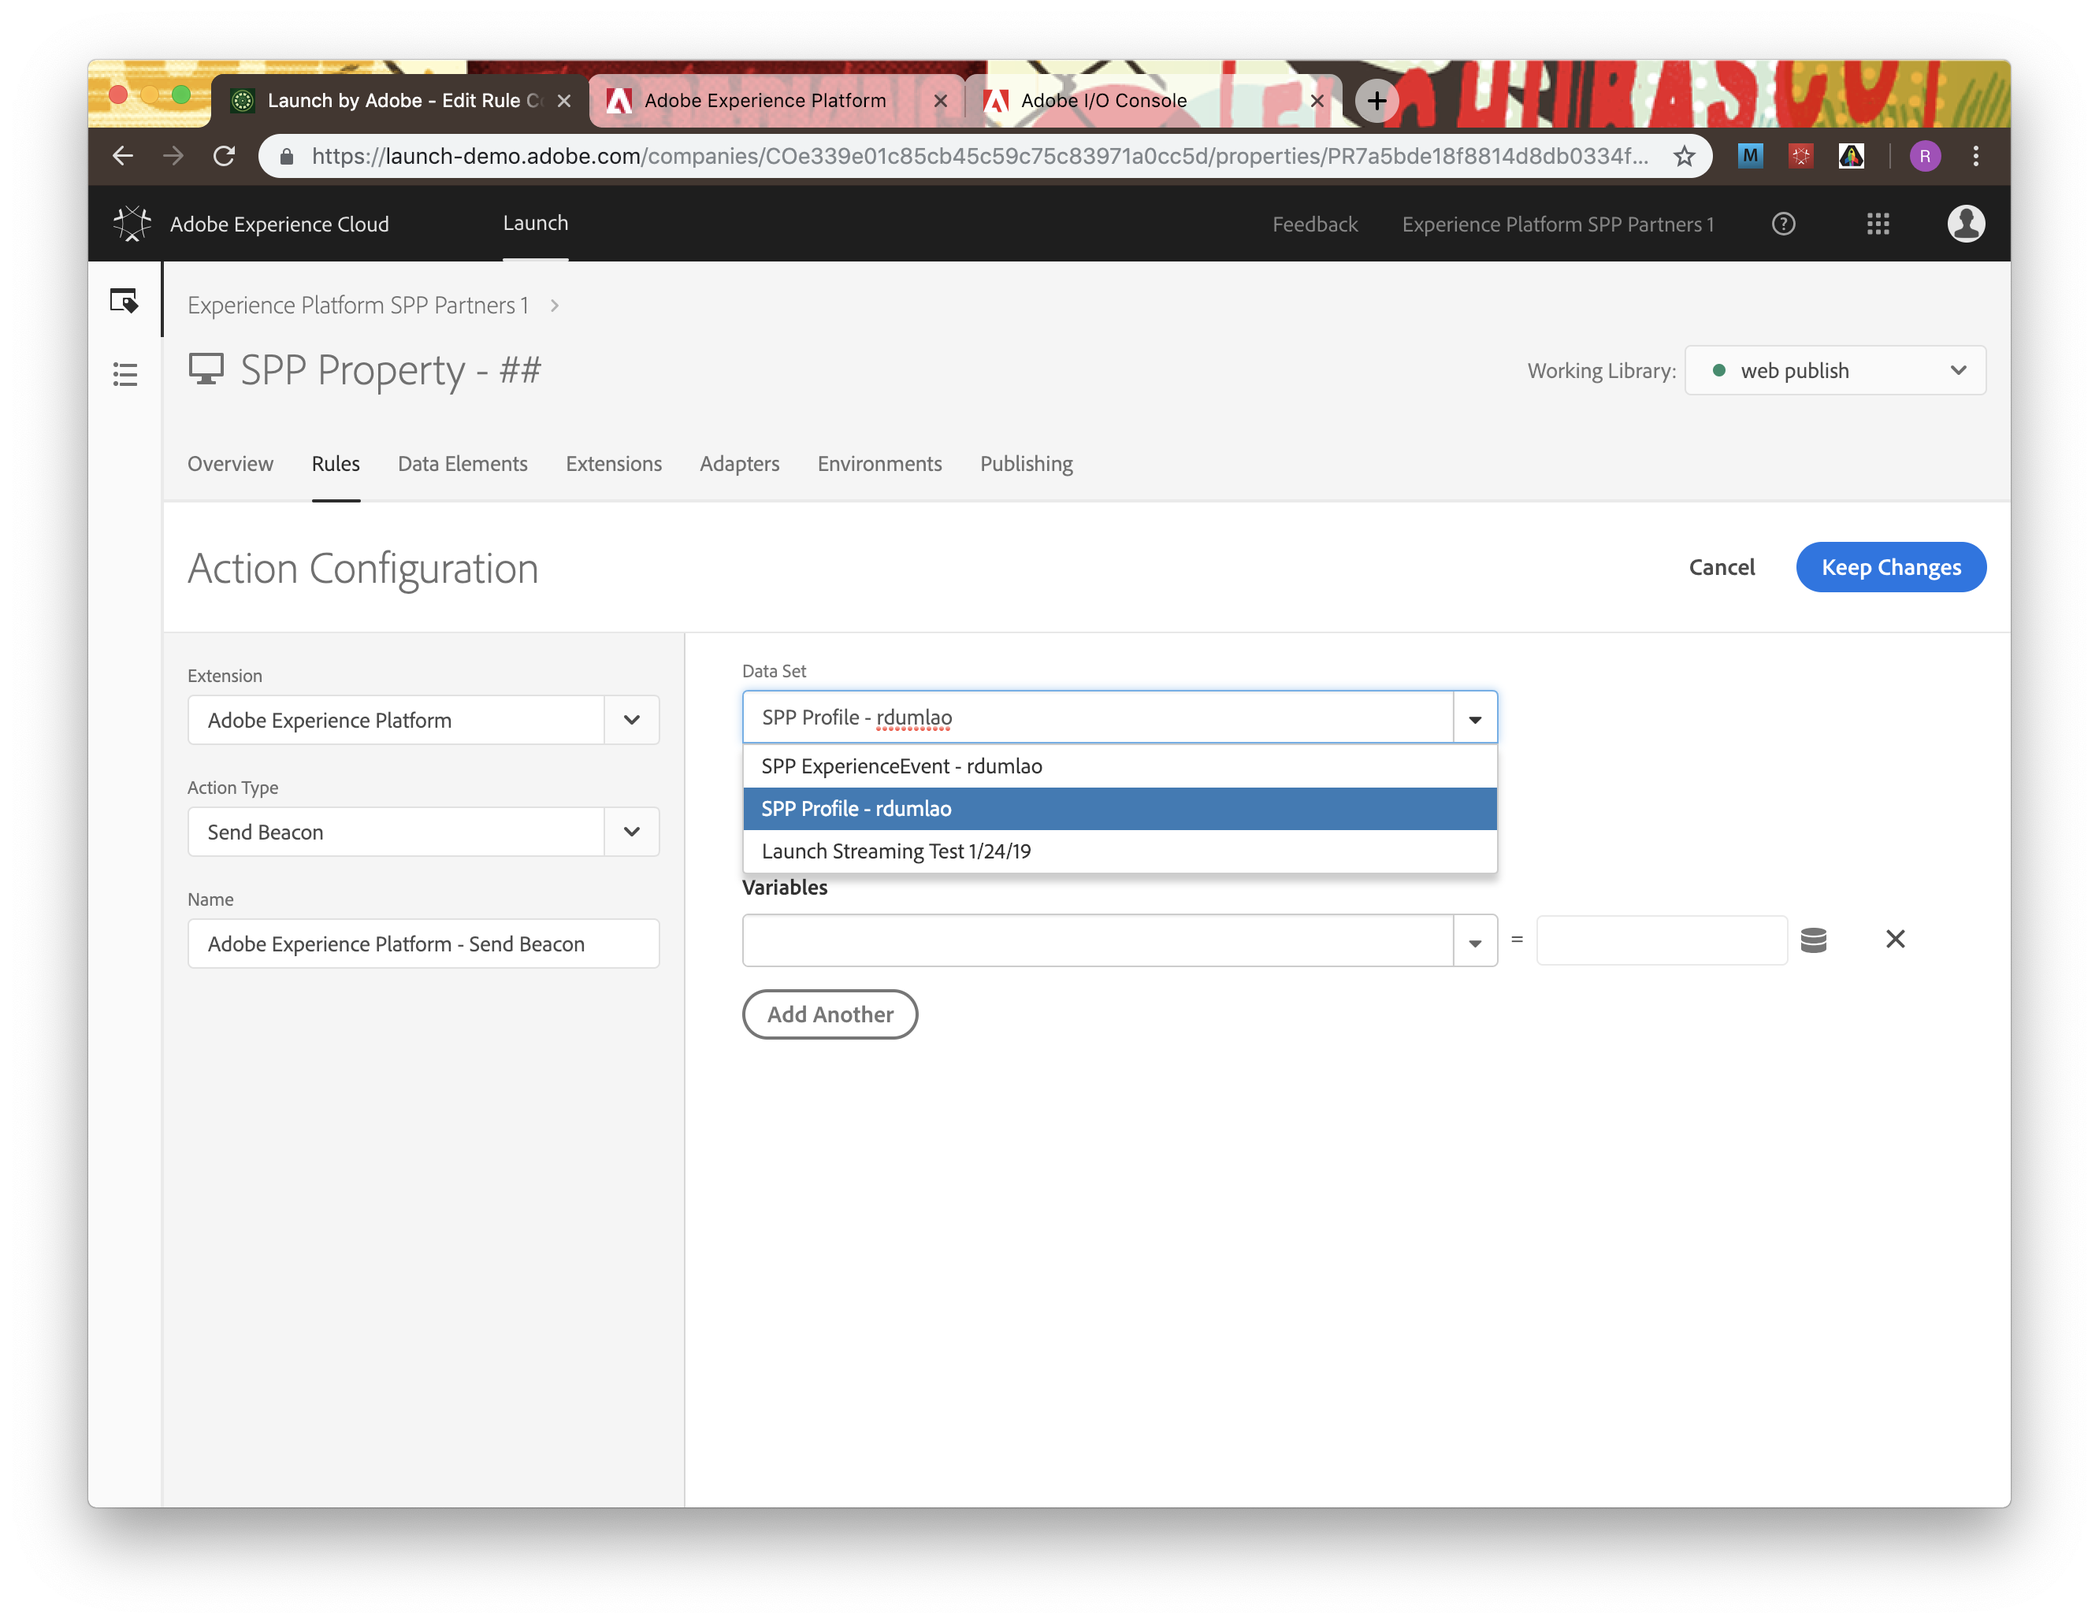
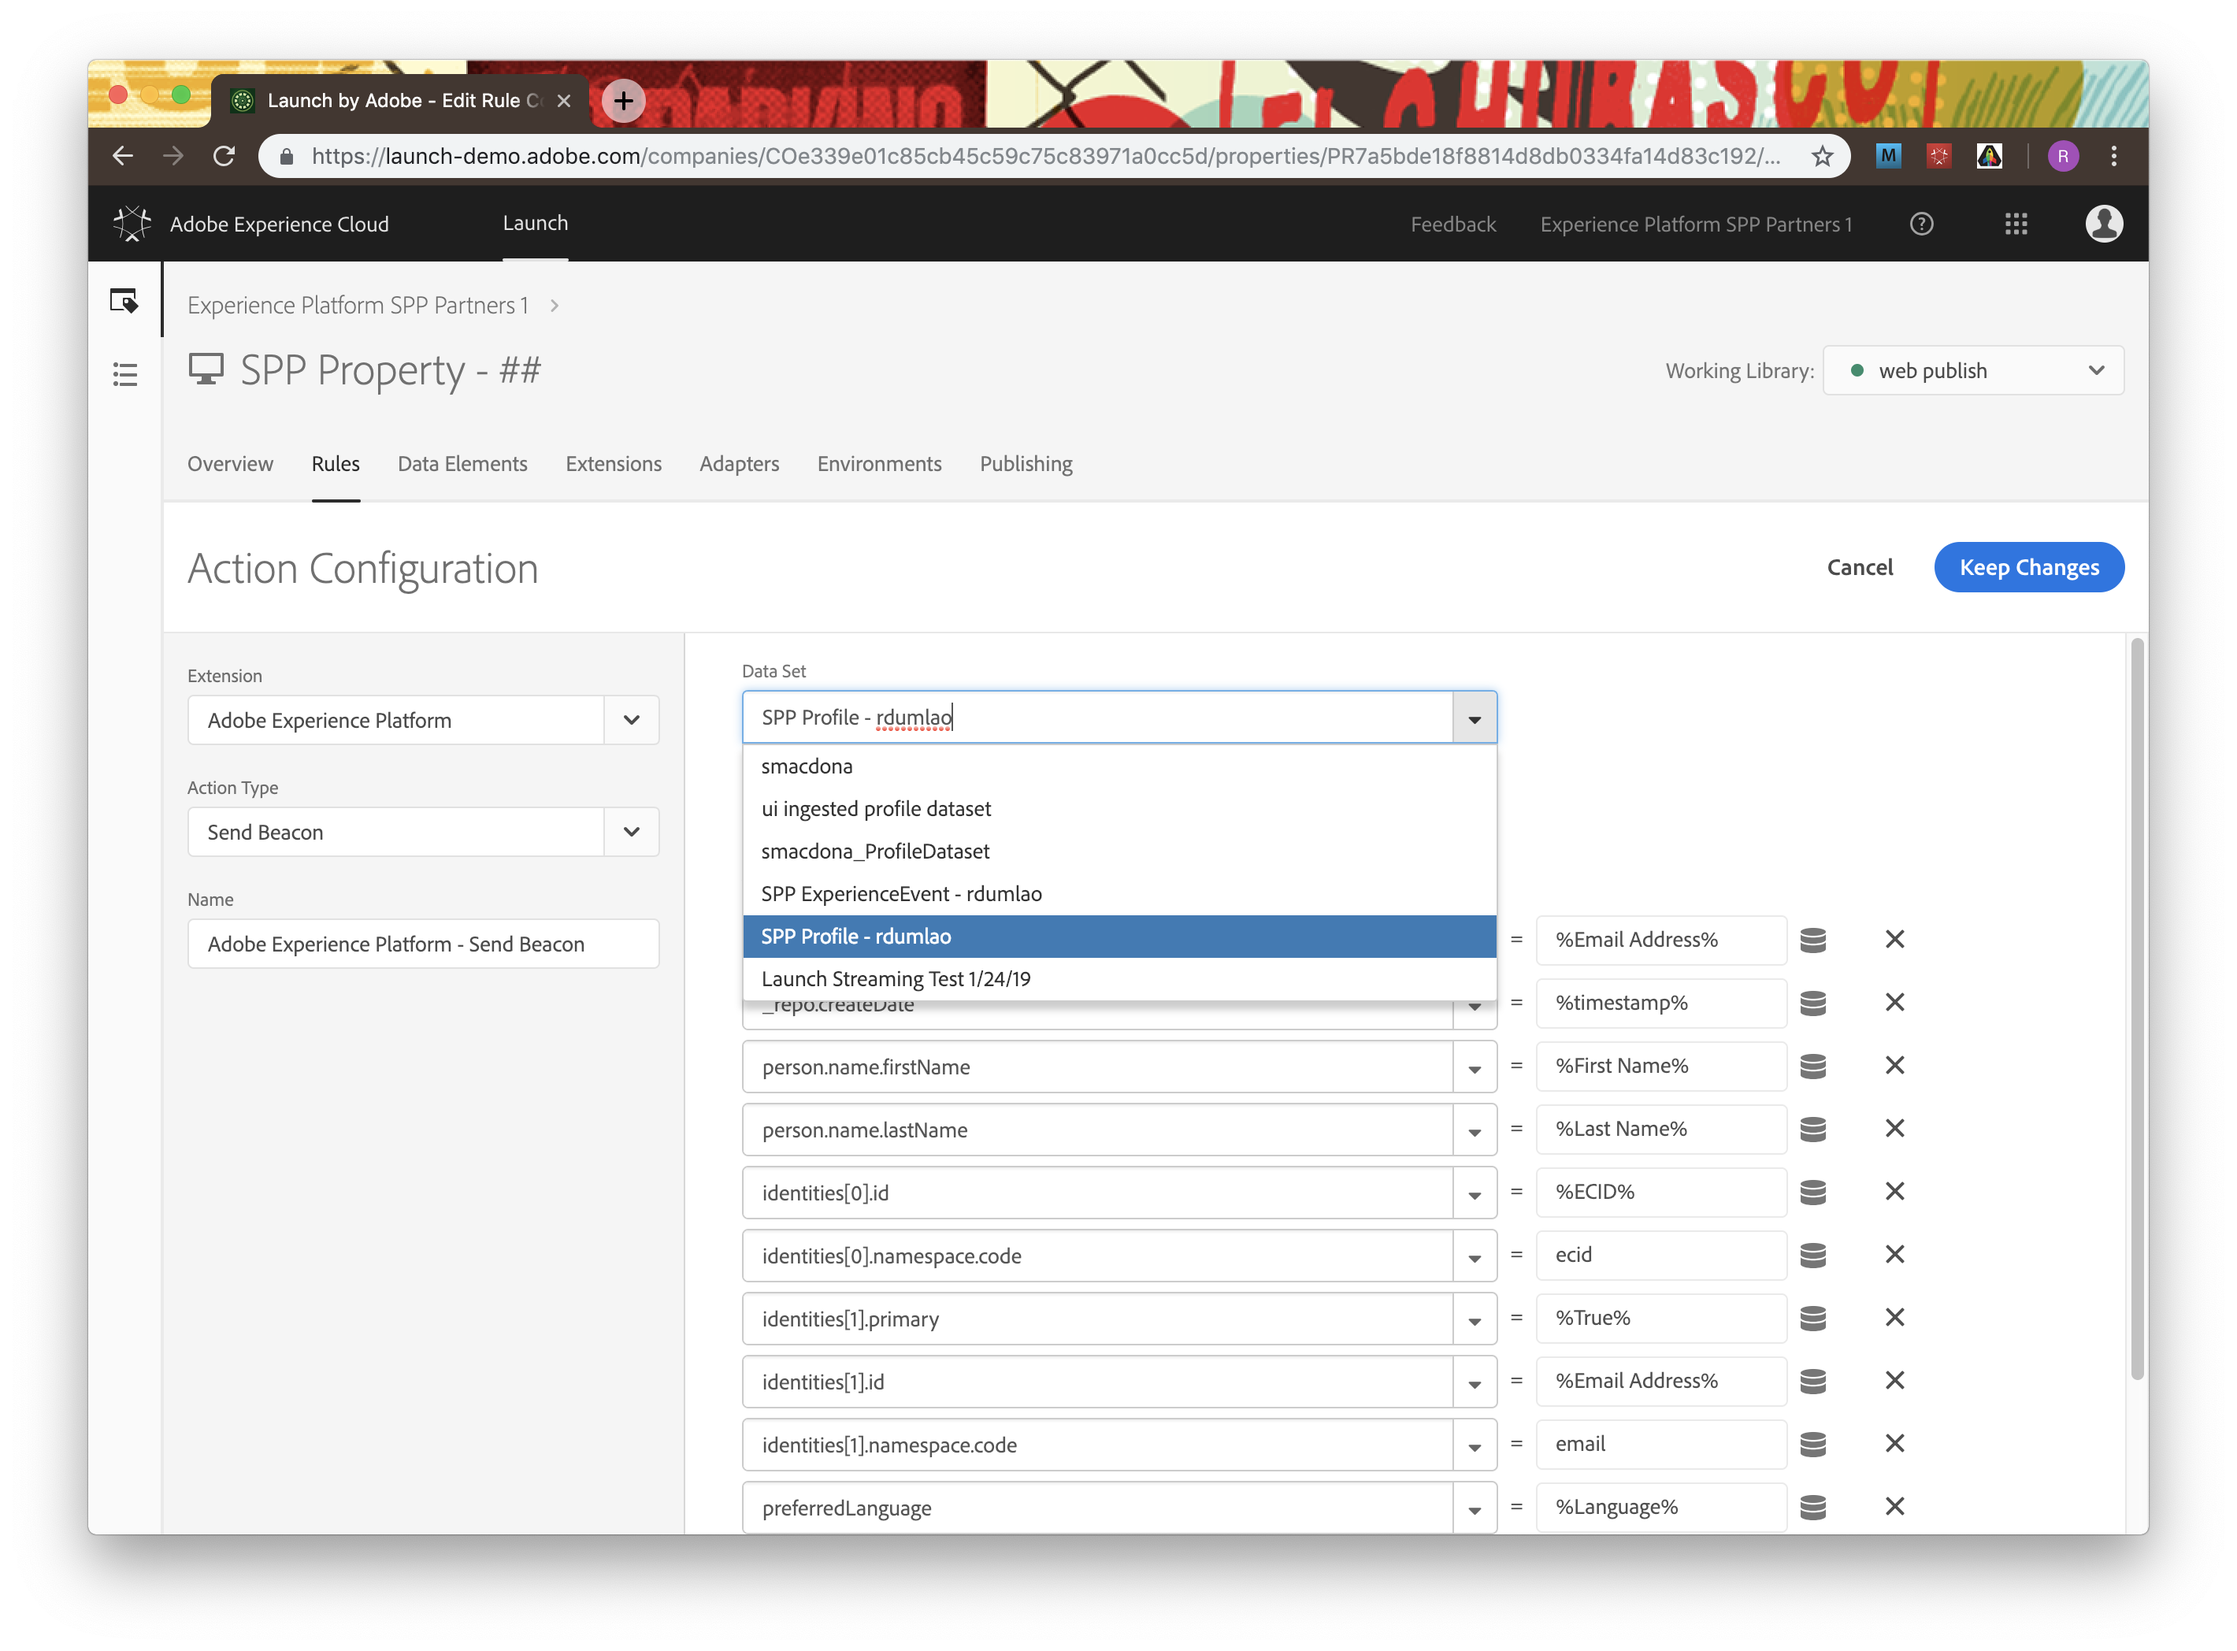
finishing up Postman-side for Ch. 9 post-streaming steps; added Unified Profile tagging for Ch. 4

diff --git a/chapters/chapter-9.md b/chapters/chapter-9.md
@@ -7,7 +7,7 @@
 
 ## Lab Resources
 
-- Launch URL:
+- Launch URL: https://launch-demo.adobe.com
 
 ## Lab Tasks
 
@@ -200,7 +200,7 @@ Some elements of Launch are pre-packaged for sake of time.
 
 1. Let's save our changes. Click on "Keep Changes" to save our Action, and then "Save to Library and Build"
 
-1. [NEEDS TO ADD IMAGE] We just set up our first rule to send an ExperienceEvent to Platform! Now let's do the same thing for same with Profile data, by taking a look at the "Sign Up" rule. Clicking on "Core - Click" you can see the composition of the event that we're looking for - a click on the "Submit" button during sign-up.
+1. We just set up our first rule to send an ExperienceEvent to Platform! Now let's do the same thing for same with Profile data, by taking a look at the "Sign Up" rule. Clicking on "Core - Click" you can see the composition of the event that we're looking for - a click on the "Submit" button during sign-up.
 
     ![](../images/chapter-9/launch-setup-21a.png)
 
@@ -211,14 +211,20 @@ Some elements of Launch are pre-packaged for sake of time.
     ![](../images/chapter-9/launch-setup-21.png)
 
 1. Explore the actions for this rule, as there are several already pre-populated. You'll notice that we are sending the following variables:
+   1. personalEmail.address
+   1. \_repo.createDate
    1. person.name.firstName
    1. person.name.lastName
-   1. personalEmail.address
    1. identities[0].id
    1. identities[0].id.namespace.code
-   1. \_repo.createDate
+   1. identities[0].id.primary
+   1. identities[0].id
+   1. identities[0].id.namespace.code
+   1. preferredLanguage
+   1. mobilePhone.number
 
-   You'll also see that the "personalEmail.address" value is "%%" and needs to be corrected. Clear this text box and then select the "Email Address" data element using the round stack icon next to the text box.
+
+   You'll also see that the "identities[1].id" value is "DELETE" and needs to be corrected. This value sets one of the identities that Unified Profile uses to match XDM data to each other. Clear this text box and then select the "Email Address" data element using the round stack icon next to the text box.
 
     ![](../images/chapter-9/launch-setup-22.png)
 
@@ -232,34 +238,48 @@ Some elements of Launch are pre-packaged for sake of time.
 
 Now we've got a Launch property setup, and a WeTravel instance running with the Launch streaming endpoint included. Let's watch it stream data into Experience Platform.
 
-1. Go to your SPA, open inspector, to network tab
-1. refresh the page
+1. Go to https://www.we-travel.com. This should be pointing to your Fenix webserver instance of We-Travel. Right click and open up "Inspect" to see the page inspector.
 
     ![](../images/chapter-9/launch-wetravel-homepage.png)
 
-1. filter by "dcs" until you find your endpoint
+1. Go to the "Network" tab, and type "dcs" into the filter box. This will filter our network commands being sent to the Launch streaming URL. Refresh the page.
+
+1. Select the endpoint under "Name" and scroll dwon on the right pane to "Request Payload". You should see an expandable JSON payload starting with `{header: `. Expand all these fields and you will be able to see the XDM data that we defined in our Launch rule for "Page View" being sent from the page to Launch.
 
     ![](../images/chapter-9/launch-wetravel-eebeacon-homepage.png)
 
-1. look at payload, expand the fields. observe all the becaon data from Page View
-1. sign up. click sign-up, look at payload. observe your profile data being sent
+1. Go back to your WeTravel screen. Now let's see our Sign-Up rule in action by going to "Login" in the top right of the page. Scroll down to the sign-up form and fill in some dummy details with your name and email. These do not have to be real or accurate.
 
     ![](../images/chapter-9/launch-wetravel-signup.png)
 
+1. Click "Sign In". You will see an "Aw snap!" error, but please ignore this; our instance of WeTravel is stripped-down and does not contain any functionality past this page. Go back to your inspector and you can now observe two Launch beacons being sent!
+
+1. One beacon data contains the Profile XDM data we filled into the form. You can see all the fields we defined in the "Sign Up" rule on Launch here.
+
     ![](../images/chapter-9/launch-wetravel-profilebeacon.png)
 
-    ![](../images/chapter-9/launch-wetravel-eebeacon.png)
+1. The other beacon is an ExperienceEvent XDM fired by the "Page View" rule, the same as when we were at the WeTravel Homepage. You'll notice the data for this page is basically identical, except for the `webPageDetails` and `timestamp` fields.
 
-1. copy your ECID
+    ![](../images/chapter-9/launch-wetravel-eebeacon-signup.png)
+    
+1. We can also look at all of our ExperienceEvent data within Experience Platform using an API call through Postman. Within the beacon data, find the `mcid: {id: "##"` field and select your ECID. This ID is specific to your browser session and can be used to look up ExperienceEvent and Unified Profile data.
 
     ![](../images/chapter-9/launch-wetravel-ecid.png)
 
-1. do Profile API lookup on Postman using email
-1. do ExperienceEvent API lookup on Postman using ECID
-1. go to monitoring tab, check unified profile ingestion
+1. Go to Postman, and under the Chapter 9 collection find the `experienceevent point lookup` call. find the `entityId` Field and paste your copied ECID here from the clipboard. Make sure that the `entityIdNS` field is set to "ecid". Send the `GET` call.
+
+ 	![](../images/chapter-9/launch-ecid-lookup-1.png)
+
+1. You should get back a list of all ExperienceEvents associated with your ECID - browsing the homepage and the signup page. Take a look, your streaming data is now in Experience Platform!
+
+ 	![](../images/chapter-9/launch-ecid-lookup-2.png)
+
+1. This data is now in Experience Platform, but it go to monitoring tab, check unified profile ingestion
 
 ---
 
 ### Navigate
 
 **Previous:** Chapter 8 - [Technical: Query the Data](chapter-8.md)
+
+**Return Home:** [Workbook Index](../README.md)

diff --git a/README.md b/README.md
@@ -1,6 +1,6 @@
 # Adobe Experience Platform SPP Workshop
 
-- Date: January 30th, 2019
+- Date: January 29th-30th, 2019
 - Participants: Adobe Partners
 - Instructors: Klaasjan Tukker (ktukker@adobe.com), Simon Mac Donald (smacdona@adobe.com), Ryan Dumlao (dumlao@adobe.com), Sarah Xu (saxu@adobe.com)
 
@@ -16,6 +16,16 @@ This workshop is intended to cover the following topics in both UI and API setti
 - Dataset visualization in Experience Platform UI
 - Unified Profile, Segment Builder
 - Adobe Launch and streaming data in to Platform
+
+### Schedule
+
+|Day|Time Block|Scheduled Event|
+|---|----------|-----|
+|Day 1 (1/29)|4:00 PM - 5:00 PM|Technical setup and preparation (provisioning, access, software tools)|
+|Day 2 (1/30)|10:00 AM - 10:15 AM|Tech Keynote - Jim Rivera|
+||10:15 AM - 12:30 PM|Morning hands-on lab, Experience Platform UI|
+||12:30 PM - 1:30 PM|Networking Lunch & Break|
+||1:30 PM - 5:00 PM|Afternoon hands-on technical lab, Experience Platform APIs|
 
 ### Story
 
@@ -68,10 +78,14 @@ These will be supplied to you with a handout and are unique to each registered p
 ##### API and Technical Lab
 
 - Precursor - [Login and Accessing with Postman](chapters/chapter-6-precursor.md)
-- Chapter 6 - [Define the Schema](chapters/chapter-6.md)
-- Chapter 7 - [Ingest the Data](chapters/chapter-7.md)
+- Chapter 6 - [Explore and Define XDM Schema](chapters/chapter-6.md)
+- Chapter 7 - [Ingesting Data](chapters/chapter-7.md)
 - Chapter 8 - [Query the Data](chapters/chapter-8.md)
 - Chapter 9 - [Stream in Data](chapters/chapter-9.md)
+
+##### Bonus API Content
+
+- Chapter 10 - [Segment the Data](chapters/chapter-10.md)
 
 #### Administrative (remove before Summit)
 

diff --git a/chapters/chapter-4.md b/chapters/chapter-4.md
@@ -56,6 +56,18 @@ For batch ingestion of data, it is important that the data is properly formatted
 
    ![](../images/chapter-4/ui-3-dataset_preview.png)
 
+1. We also need to make sure that we enable this dataset for Unified Profile. By default, this needs to be enabled by the user for each dataset. Any datasets tagged for Unified Profile will ingest data for Unified Profile consumption as well, enabling profile-stitchign across datasets and giving a full 360-degree view of a specific profile.
+
+1. go to the "Unified Profile" tab and select "Manage" to manage which datasets are included in Unified Profile.
+
+   ![](../images/chapter-4/ui-4-unifiedprofile-1.png)
+
+1. Find your Profile and ExperienceEvent datasets in the left list, select them, and then click "Enable", and confirm. Now your datasets will send their data into the Unified Profile service as well as Experience Platform.
+
+   ![](../images/chapter-4/ui-4-unifiedprofile-2.png)
+
+   ![](../images/chapter-4/ui-4-unifiedprofile-3.png)
+
 1. [NOT WORKING IN OLD UI] Alright, now that our customer loyalty data has been ingested, we want to make sure that this dataset is properly governed for usage and export control. Click on the "Data Governance" tabe and observe that we can set three types of restrictions: Contractual, Identity, and Sensitive Data.
 
    ![](../images/chapter-4/ui-5-data_governance.png)
@@ -75,4 +87,7 @@ For batch ingestion of data, it is important that the data is properly formatted
 ### Navigate
 
 **Previous:** Chapter 3 - [UI: Define the Schema](chapter-3.md)
+
 **Next:** Chapter 5 - [UI: Segment the Data](chapter-5.md)
+
+**Return Home:** [Workbook Index](../README.md)

diff --git a/chapters/chapter-6.md b/chapters/chapter-6.md
@@ -57,4 +57,7 @@ With the creation of our custom schema we are ready to move on to the next step 
 ### Navigate
 
 **Previous:** Precursor - [API: Login and Accessing with Postman](chapter-6-precursor.md)
+
 **Next:** Chapter 7 - [API: Ingest the Data](chapter-7.md)
+
+**Return Home:** [Workbook Index](../README.md)

diff --git a/chapters/chapter-2.md b/chapters/chapter-2.md
@@ -57,4 +57,7 @@ Adobe Campaign is one use-case for Adobe Experience Cloud products living on Exp
 ### Navigate
 
 **Previous:** Chapter 1 - [Setup: Before you start: Pre-Authorization](chapter-1.md)
+
 **Next:** Chapter 3 - [UI: Define the Schema](chapter-3.md)
+
+**Return Home:** [Workbook Index](../README.md)

diff --git a/chapters/chapter-3.md b/chapters/chapter-3.md
@@ -56,4 +56,7 @@ Building a customer loyalty program requires a foundation. Here, we will define 
 ### Navigate
 
 **Previous:** Chapter 2 - [Setup: XDM and Experience Platform Overview](chapter-2.md)
+
 **Next:** Chapter 4 - [UI: Ingest the Data](chapter-4.md)
+
+**Return Home:** [Workbook Index](../README.md)

diff --git a/chapters/chapter-7.md b/chapters/chapter-7.md
@@ -142,4 +142,7 @@ Well that was a lot of work to ingest the data. Let's move on to the next step w
 ### Navigate
 
 **Previous:** Chapter 6 - [API: Define the Schema](chapter-6.md)
+
 **Next:** Chapter 8 - [Technical: Query the Data](chapter-8.md)
+
+**Return Home:** [Workbook Index](../README.md)

diff --git a/chapters/chapter-8.md b/chapters/chapter-8.md
@@ -164,4 +164,7 @@ Query Service gives you the ability to use standard SQL to query data in Adobe E
 ### Navigate
 
 **Previous:** Chapter 7 - [API: Ingest the Data](chapter-7.md)
+
 **Next:** Chapter 9 - [Technical: Stream in Data](chapter-9.md)
+
+**Return Home:** [Workbook Index](../README.md)

diff --git a/chapters/chapter-6-precursor.md b/chapters/chapter-6-precursor.md
@@ -193,4 +193,7 @@ Whew! We are finally ready to start calling the Adobe Experience Platform API's 
 ### Navigate
 
 **Previous:** Chapter 5 - [UI: Segment the Data](chapter-5.md)
+
 **Next:** Chapter 6 - [API: Define the Schema](chapter-6.md)
+
+**Return Home:** [Workbook Index](../README.md)

diff --git a/chapters/chapter-1.md b/chapters/chapter-1.md
@@ -102,3 +102,5 @@ Mac users will be able to use the default version of **OpenSSL** included with M
 ### Navigate
 
 **Next:** Chapter 2 - [XDM and Experience Platform Overview](chapter-2.md)
+
+**Return Home:** [Workbook Index](../README.md)
